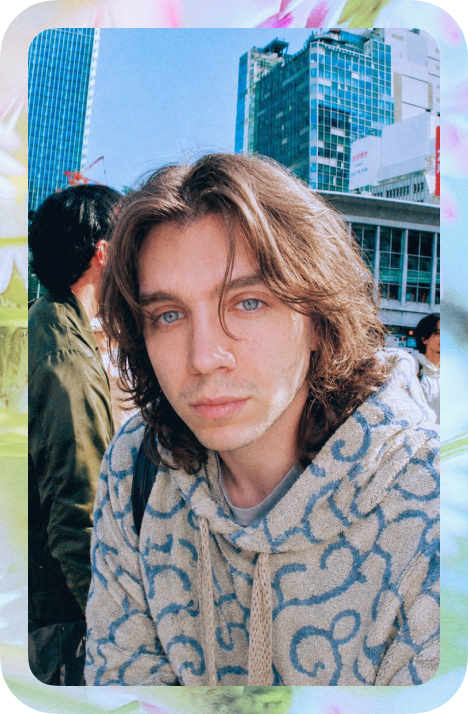
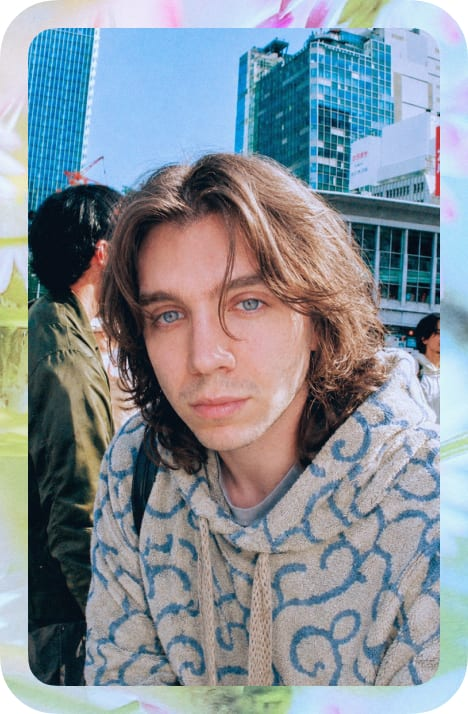
perf(images): re-encode the draft hero photograph
574,227 -> 69,505 bytes (-88%), dimensions unchanged at 468x714. The file was
13.75 bits per pixel where a normal web photograph is about 2; it had been
exported at near-maximum quality. Now 1.66. image_bytes drops from 577,161 to
about 73,000, under its 150,000 budget.

Quality 82, mozjpeg, progressive, via npx sharp-cli as a one-off - no permanent
dependency added. The 574 KB original is recoverable from 16f3b25 if a different
encoding is ever wanted; not kept in the working tree because this is a draft
expected to be replaced.

Verified: 20/32 screenshots byte-identical; the 12 that changed are exactly the
pages showing the portrait, where the differing pixels form one solid region of
272x415 (desktop) and 240x366 (mobile) at 99.3% density - the CSS display sizes.
No page changed height. 501 Elixir and 52 JS tests green.

Also corrects the backlog: the claimed ~10 KB saving from running SVGO was
wrong. Measured, every SVG comes back byte-identical - they were already at the
configured precision. And records that compression now masks the markup: the
HTML document is still 70,208 bytes and its budget will no longer say so.

diff --git a/_PROJECT_DOCS/BACKLOG.md b/_PROJECT_DOCS/BACKLOG.md
@@ -49,21 +49,31 @@ below is ordered by bytes saved per unit of effort.
   sends 33,404 bytes over that connection against a 20,000 budget. LiveView
   supports compressing this; it is one flag. Measure before and after — the
   saving is unverified.
-- **Re-encode the draft hero photograph.** `assets/static/images/portrait-draft.jpg`
-  is 574,227 bytes for a 468×714 image. That works out to 13.75 bits per pixel,
-  where a normal web photograph is about 2. It is not too large in dimensions —
-  468 pixels wide is correct for a 240-pixel slot on a high-resolution screen —
-  it was simply exported at near-maximum quality. Re-encoding at sensible
-  quality gives roughly 40,000 bytes and no visible difference, which takes
-  `image_bytes` from 577,161 to under its 150,000 budget. This is a draft asset;
-  do not build the responsive-image work around it (see the media item below).
-- **Shrink the inline SVG in the page markup.** Ten SVG images are written
-  directly into the HTML and total 26,850 bytes — 38% of the page markup. The
-  largest is the signature wordmark at 13,771 bytes
-  (`lib/portfolio_web/components/identity/signature.svg`), and it has never been
-  run through SVGO: its path coordinates still carry full decimal precision.
-  The repository already has a tuned SVGO configuration; it is simply pointed at
-  `assets/static/` and does not reach this file.
+- **Done 2026-08-29: re-encoded the draft hero photograph.** Was 574,227 bytes
+  at 468×714 — 13.75 bits per pixel, where a normal web photograph is about 2.
+  The dimensions were always right (468 pixels suits a 240-pixel slot on a
+  high-resolution screen); it had simply been exported at near-maximum quality.
+  Re-encoded at quality 82 with mozjpeg and progressive scan: **69,505 bytes,
+  1.66 bits per pixel, an 88% reduction**, dimensions unchanged. `image_bytes`
+  goes from 577,161 to about 73,000, under its 150,000 budget. The pristine
+  574 KB original is recoverable from commit `16f3b25` if a different encoding
+  is ever wanted; it was not kept in the working tree because this is a draft
+  asset expected to be replaced, possibly by video.
+- **Settled, do not re-investigate: SVGO has nothing left to give.** An earlier
+  version of this entry claimed roughly 10,000 bytes were available by running
+  SVGO over the signature wordmark. That was inferred from seeing decimal
+  coordinates in the file and **it was wrong.** Measured 2026-08-29: the
+  signature and all four logo files come back byte-identical, 0% saved. They are
+  already at the configured precision. The signature is 13,771 bytes because the
+  artwork contains that much path data, so reducing it means simplifying the
+  drawing — a design decision, not an optimisation task.
+- **Watch out: compression now hides the size of the markup.** The HTML document
+  is 70,208 bytes, of which 26,850 is inline SVG and 42,681 is tags and class
+  attributes wrapping only 12,334 bytes of visible text. None of that changed;
+  it is simply compressed on the way out, so `html_bytes` reads 28,912 and
+  passes its budget. Do not read a green `html_bytes` as "the markup is fine."
+  If markup weight is worth attacking later, measure the uncompressed document,
+  because the budget no longer will.
 - **Decide what the site is willing to ship, then set the budgets to match.**
   After the items above, fonts are the only measurement still over budget:
   roughly 372,100 bytes against 100,000. Two facts make this a decision rather

diff --git a/_PROJECT_DOCS/page-weight.md b/_PROJECT_DOCS/page-weight.md
@@ -338,6 +338,57 @@ directly will always fail, because LiveView embeds a fresh CSRF token and
 session token in every response. Normalise those out first, or the check reports
 a mismatch that has nothing to do with what changed.
 
+## Phase 2 results: hero photograph (done)
+
+Re-encoded at quality 82, mozjpeg, progressive, via `npx sharp-cli` as a one-off
+— no permanent dependency added.
+
+| | Before | After |
+|---|---|---|
+| Bytes | 574,227 | **69,505** (−88%) |
+| Bits per pixel | 13.75 | **1.66** (normal is ~2) |
+| Dimensions | 468×714 | 468×714 (unchanged) |
+
+Verified as specified: 20 of 32 screenshots byte-identical, and the 12 that
+changed are exactly the pages showing the portrait. On those, the differing
+pixels form **one solid region measuring 272×415 on desktop and 240×366 on
+mobile at 99.3% density** — precisely the CSS display sizes. No page changed
+height, so nothing reflowed. 501 Elixir and 52 JS tests green.
+
+**Cost: 0 lines of code.** One file replaced.
+
+The 574 KB original stays recoverable from commit `16f3b25`. It was not kept in
+the working tree because this is a draft expected to be replaced; when the real
+asset lands, `assets/images/src/` becomes its home and the generator encodes
+from it.
+
+## Correction: SVGO was not worth doing
+
+An earlier version of this plan estimated ~10,000 bytes from running SVGO over
+the inline SVG. **Measured, it is zero.** The signature wordmark and all four
+logos come back byte-identical — they were already at the configured precision.
+The claim came from seeing decimal coordinates in the file and inferring the
+tool had never run, without running it. Deleted from the backlog rather than
+scheduled.
+
+## What compression is now hiding
+
+Worth stating plainly, because it is the cost of the compression win. The HTML
+document is still **70,208 bytes**:
+
+| | bytes |
+|---|---|
+| Inline SVG | 26,850 (38%) |
+| Tags, classes, attributes | 42,681 |
+| — wrapping visible text of | 12,334 |
+| Inline script and style | 677 |
+| LiveView data attributes | 771 |
+
+Roughly 3.5 bytes of markup per byte of text. None of that improved; it is
+compressed on the way out and now passes its budget at 28,912. The gate will not
+raise it again, so if markup weight is ever worth attacking, measure the
+uncompressed document deliberately.
+
 ## Line budgets, written down before building
 
 Predictions, so the count afterwards is a measurement and not an excuse. Code
